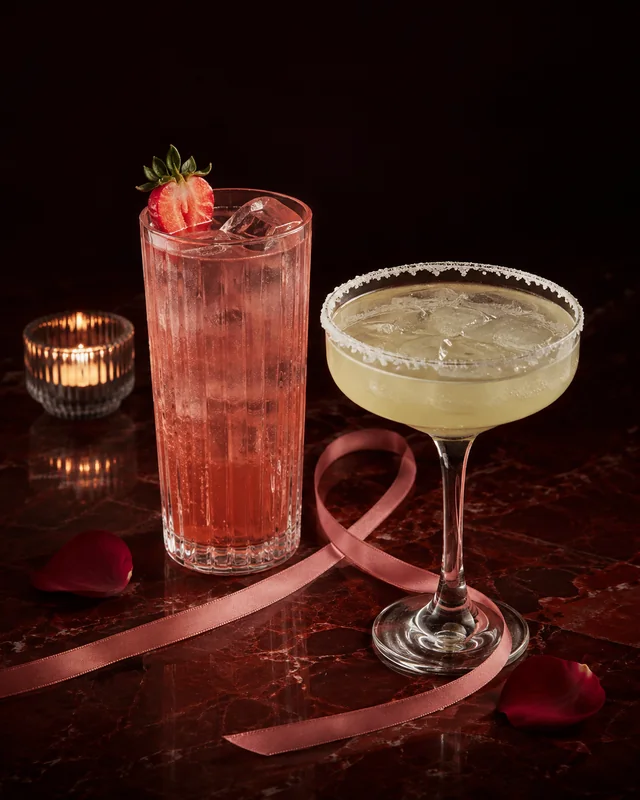
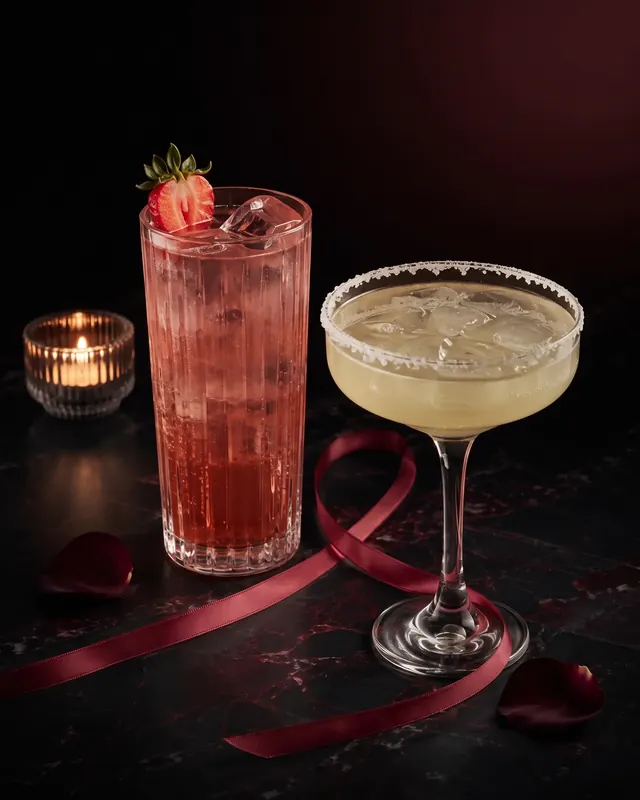
💄 style: la escena de campaña pasa a negro mate
El mármol vino de la foto era la mancha de color más grande de la
portada y peleaba con el fondo negro nuevo. Regenerada con la misma
composición sobre mármol negro: el vino queda en el satén, los pétalos
y las vetas, y la vela sigue siendo la única luz cálida.

De paso pesa la mitad (78 KB y 30 KB) y el texto alternativo describe
lo que de verdad se ve.

Claude-Session: https://claude.ai/code/session_015wCegCV4hbd9Y5aJ1g2uEm

diff --git a/src/pages/CelebrationCardPage.jsx b/src/pages/CelebrationCardPage.jsx
@@ -87,7 +87,7 @@ export default function CelebrationCardPage() {
             {error && <p role="alert" className="aa-card-error">{error}</p>}
           </form>
           <section className="aa-card-result" aria-label="Tu tarjeta" aria-busy={busy}>
-            {resultUrl ? <><img src={resultUrl} alt="Tarjeta de Amor y Amistad generada con tu foto y dedicatoria" /><div className="aa-actions"><a className="aa-button aa-button--primary" href={resultUrl} download={result.name}><Download size={16} /> Descargar</a><button type="button" className="aa-button aa-button--secondary" onClick={share}><Share2 size={16} /> Compartir</button></div></> : <><img src="/images/amor-amistad-brindis-mobile.webp" alt="Referencia de estilo: tonos vino, cristal y un lazo de satén" /><p>Tu foto será la protagonista.<br />El satén y los reflejos tomarán sus colores.</p></>}
+            {resultUrl ? <><img src={resultUrl} alt="Tarjeta de Amor y Amistad generada con tu foto y dedicatoria" /><div className="aa-actions"><a className="aa-button aa-button--primary" href={resultUrl} download={result.name}><Download size={16} /> Descargar</a><button type="button" className="aa-button aa-button--secondary" onClick={share}><Share2 size={16} /> Compartir</button></div></> : <><img src="/images/amor-amistad-brindis-mobile.webp" alt="Referencia de estilo: negro mate, cristal y un lazo de satén vino" /><p>Tu foto será la protagonista.<br />El satén y los reflejos tomarán sus colores.</p></>}
           </section>
         </div>
       </div>

diff --git a/src/components/AmorAmistadHero.jsx b/src/components/AmorAmistadHero.jsx
@@ -76,7 +76,7 @@ export default function AmorAmistadHero() {
                 srcSet="/images/amor-amistad-brindis-mobile.webp 640w, /images/amor-amistad-brindis.webp 1122w"
                 sizes="(max-width: 640px) calc(100vw - 40px), (max-width: 1000px) 46vw, 560px"
                 width="1122" height="1402"
-                alt="Escena de celebración: dos bebidas sobre mármol vino, unidas por un lazo de satén junto a una vela."
+                alt="Escena de celebración: dos bebidas sobre mármol negro, unidas por un lazo de satén vino junto a una vela."
                 fetchPriority="high"
               />
               <div className="aa-campaign-signature" aria-hidden="true">

diff --git a/docs/amor-amistad-campaign.md b/docs/amor-amistad-campaign.md
@@ -1,6 +1,6 @@
 # Amor y Amistad: dirección de campaña
 
-Concepto: **Juntos sabe mejor**. La escena de dos bebidas conectadas por un lazo de satén reemplaza las fotografías de catálogo separadas. Una tarjeta con «Nos debemos un brindis» aporta el detalle humano de una dedicatoria. Se conservan el titular «Lo mejor es compartirlo», la paleta vino y el cristal en los controles.
+Concepto: **Juntos sabe mejor**. La escena de dos bebidas conectadas por un lazo de satén reemplaza las fotografías de catálogo separadas. Una tarjeta con «Nos debemos un brindis» aporta el detalle humano de una dedicatoria. Se conservan el titular «Lo mejor es compartirlo» y el cristal en los controles; desde el 2026-09-05 la paleta es negro mate con vino de acompañamiento.
 
 Es una imagen ambiental generada, no una fotografía de producto ni una promesa sobre la presentación, decoración o accesorios del local. La carta conserva sus productos, fotos y precios. La composición no anuncia promociones ni fechas.
 
@@ -11,7 +11,7 @@ Es una imagen ambiental generada, no una fotografía de producto ni una promesa 
 
 ## Imagen
 
-Generada con la herramienta integrada `image_gen`, el 2026-09-05. Original conservado fuera del repo. Derivados WebP de 1122 × 1402 (129 KB) y 640 × 800 (54 KB), sin alterar la composición; selección responsive con `srcSet`.
+Generada con la herramienta integrada `image_gen`, el 2026-09-05, y regenerada el mismo día con `gemini-3.1-flash-image` para pasarla a negro mate conservando la composición. Original conservado fuera del repo. Derivados WebP de 1122 × 1402 (78 KB) y 640 × 800 (30 KB); selección responsive con `srcSet`.
 
 - `public/images/amor-amistad-brindis.webp`
 - `public/images/amor-amistad-brindis-mobile.webp`
@@ -26,10 +26,16 @@ Se retira la etiqueta visible de mesa/piso de la portada. Los parámetros de la 
 
 Generador público en `/amor-amistad/tarjeta`, recuperado a partir de `feature/dia-madre`. El enlace anterior `/dia-madre/generador` redirige a la campaña vigente. Acceso desde la dedicatoria del hero y un banner compartido en `/` y mesas.
 
-API nueva: `POST /api/v1/motivational/celebration-card/`, multipart con `image`, `phrase`, `to_name`, `from_name`. Requiere publicar también la rama `feat/amor-amistad-editorial` del backend. Usa `GEMINI_API_KEY` y permite configurar `CELEBRATION_IMAGE_MODEL` (por defecto `gemini-3.1-flash-image`, modelo de la [documentación oficial consultada](https://ai.google.dev/gemini-api/docs/image-generation)). Sin migraciones ni escritura de fotos en BD o almacenamiento de Frostbyte.
+API nueva: `POST /api/v1/motivational/celebration-card/`, multipart con `image`, `phrase`, `to_name`, `from_name`. Requiere publicar también la rama `feat/amor-amistad-editorial` del backend.
+
+Dos proveedores en cadena: Gemini genera (`GEMINI_API_KEY`, `CELEBRATION_IMAGE_MODEL`, por defecto `gemini-3.1-flash-image`, de la [documentación oficial consultada](https://ai.google.dev/gemini-api/docs/image-generation)) y, si no entrega imagen, OpenAI lo releva (`OPENAI_API_KEY`, `CELEBRATION_FALLBACK_IMAGE_MODEL`, por defecto `gpt-image-1.5`, en `1024x1536` que es el vertical más cercano al 4:5). Con una sola clave configurada el servicio sigue de pie; sin ninguna responde 503. Los tiempos límite (55 s y 45 s) suman menos que el corte del navegador (110 s).
+
+Cada intento deja una fila anónima en `motivational.CardGeneration`: proveedor, resultado, modelo, si entró como respaldo y duración. Nunca la foto, los nombres ni la dedicatoria. Con eso se cuenta cuántas tarjetas se han generado, desde el admin de Django («Tarjetas generadas») o desde `GET /api/v1/motivational/celebration-card/stats/` (solo equipo autenticado; acepta `?days=N` o `?days=all`). Una fila fallida seguida de una exitosa es un mismo pedido: `generated` cuenta tarjetas entregadas y `total_attempts` cuenta intentos.
+
+Una migración (`0002_cardgeneration`) y ninguna escritura de fotos en BD o almacenamiento de Frostbyte.
 
 Foto JPG/PNG/WebP hasta 10 MB y 25 megapíxeles; se valida el contenido, normaliza orientación y elimina EXIF antes de enviarla al proveedor. Máximo 12 intentos/hora por IP usando el cache de Django; con múltiples procesos y cache local, el límite es por proceso y no una cuota global de gasto. Timeout de proveedor 90 s; errores públicos sin información del proveedor. Campos de texto limitados y usados como texto literal.
 
-La instrucción preserva personas, ropa y accesorios y deriva los acentos decorativos de sus colores, sobre base vino/rosa, satén y cristal. La fidelidad del resultado depende del generador; no se promete identidad píxel a píxel. El usuario revisa la tarjeta antes de compartir. La UI informa del envío de la foto a Google Gemini.
+La instrucción preserva personas, ropa y accesorios y deriva los acentos decorativos de sus colores, sobre base negro mate y vino, satén y cristal. La fidelidad del resultado depende del generador; no se promete identidad píxel a píxel. El usuario revisa la tarjeta antes de compartir. La UI informa del envío de la foto a Google Gemini o, en su defecto, a OpenAI.
 
-Validación: build frontend y pruebas de API con proveedor simulado (archivo inválido, límites, ausencia de clave, resultado, fallo del proveedor, respuesta sin imagen, throttle y prompt). Pendiente prueba real de generación por Jaime y publicación de ambas ramas. No se ha probado el resultado visual del modelo con una foto personal.
+Validación: build frontend, claves de ambos proveedores verificadas contra la API real (Gemini generó una imagen; OpenAI lista `gpt-image-1.5`) y pruebas de API con proveedor simulado (archivo inválido, límites, ausencia de clave, resultado, fallo del proveedor, respuesta sin imagen, throttle, prompt, cadena de respaldo y estadísticas). Pendiente prueba real de generación por Jaime y publicación de ambas ramas. No se ha probado el resultado visual del modelo con una foto personal.
